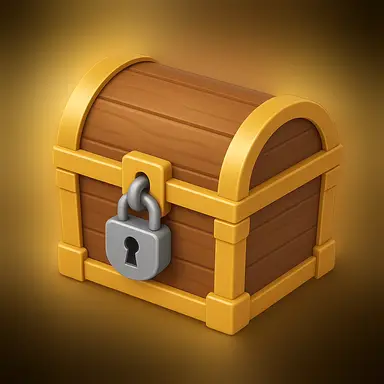
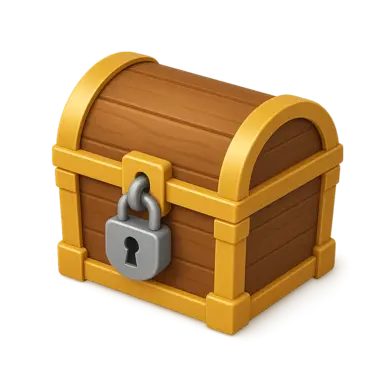
minor changes

diff --git a/apps/web/src/components/shop/shop-item-card.tsx b/apps/web/src/components/shop/shop-item-card.tsx
@@ -62,7 +62,7 @@ export function ShopItemCard({ item, onBuy }: ShopItemCardProps) {
         )}
       >
         <img
-          src={item.image.replace(/^(\/rewards\/.*)\.png$/, "$1.avif")}
+          src={item.image.replace(/^(\/rewards\/.*)\.(?:png|avif)$/, "$1.webp")}
           alt={item.name}
           className="h-32 w-32 object-contain relative z-10 "
         />
